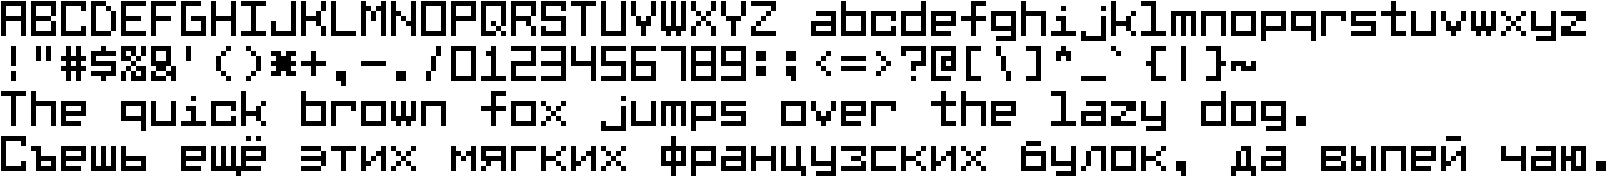
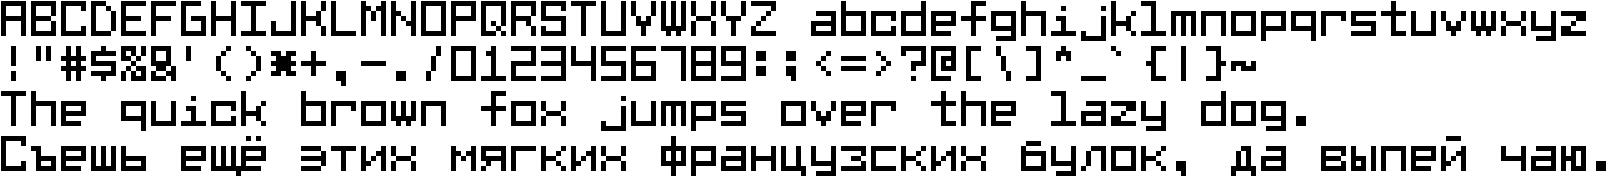
2026.06.29

diff --git a/README.md b/README.md
@@ -402,6 +402,7 @@ Please note that yoffset can be tricky.  You should use a number that correspond
 
 | Date       | Release Notes    |
 | ---------- | ---------------- |
+| 2026.06.29 | Chunky8x6, fixed (including similars): `X x` |
 | 2026.06.27 | Fixed-width 8x6 fonts added, fixed in all (including similars): `C r ¶ Ð ð ẞ ß Ґ ґ χ` and only in Light: `M e` |
 | 2026.03.08 | Light8X: Minor fix to `p` and `q`, web renderer tweaked again |
 | 2026.03.01 | Python tool added, tweaks to both renderers |
